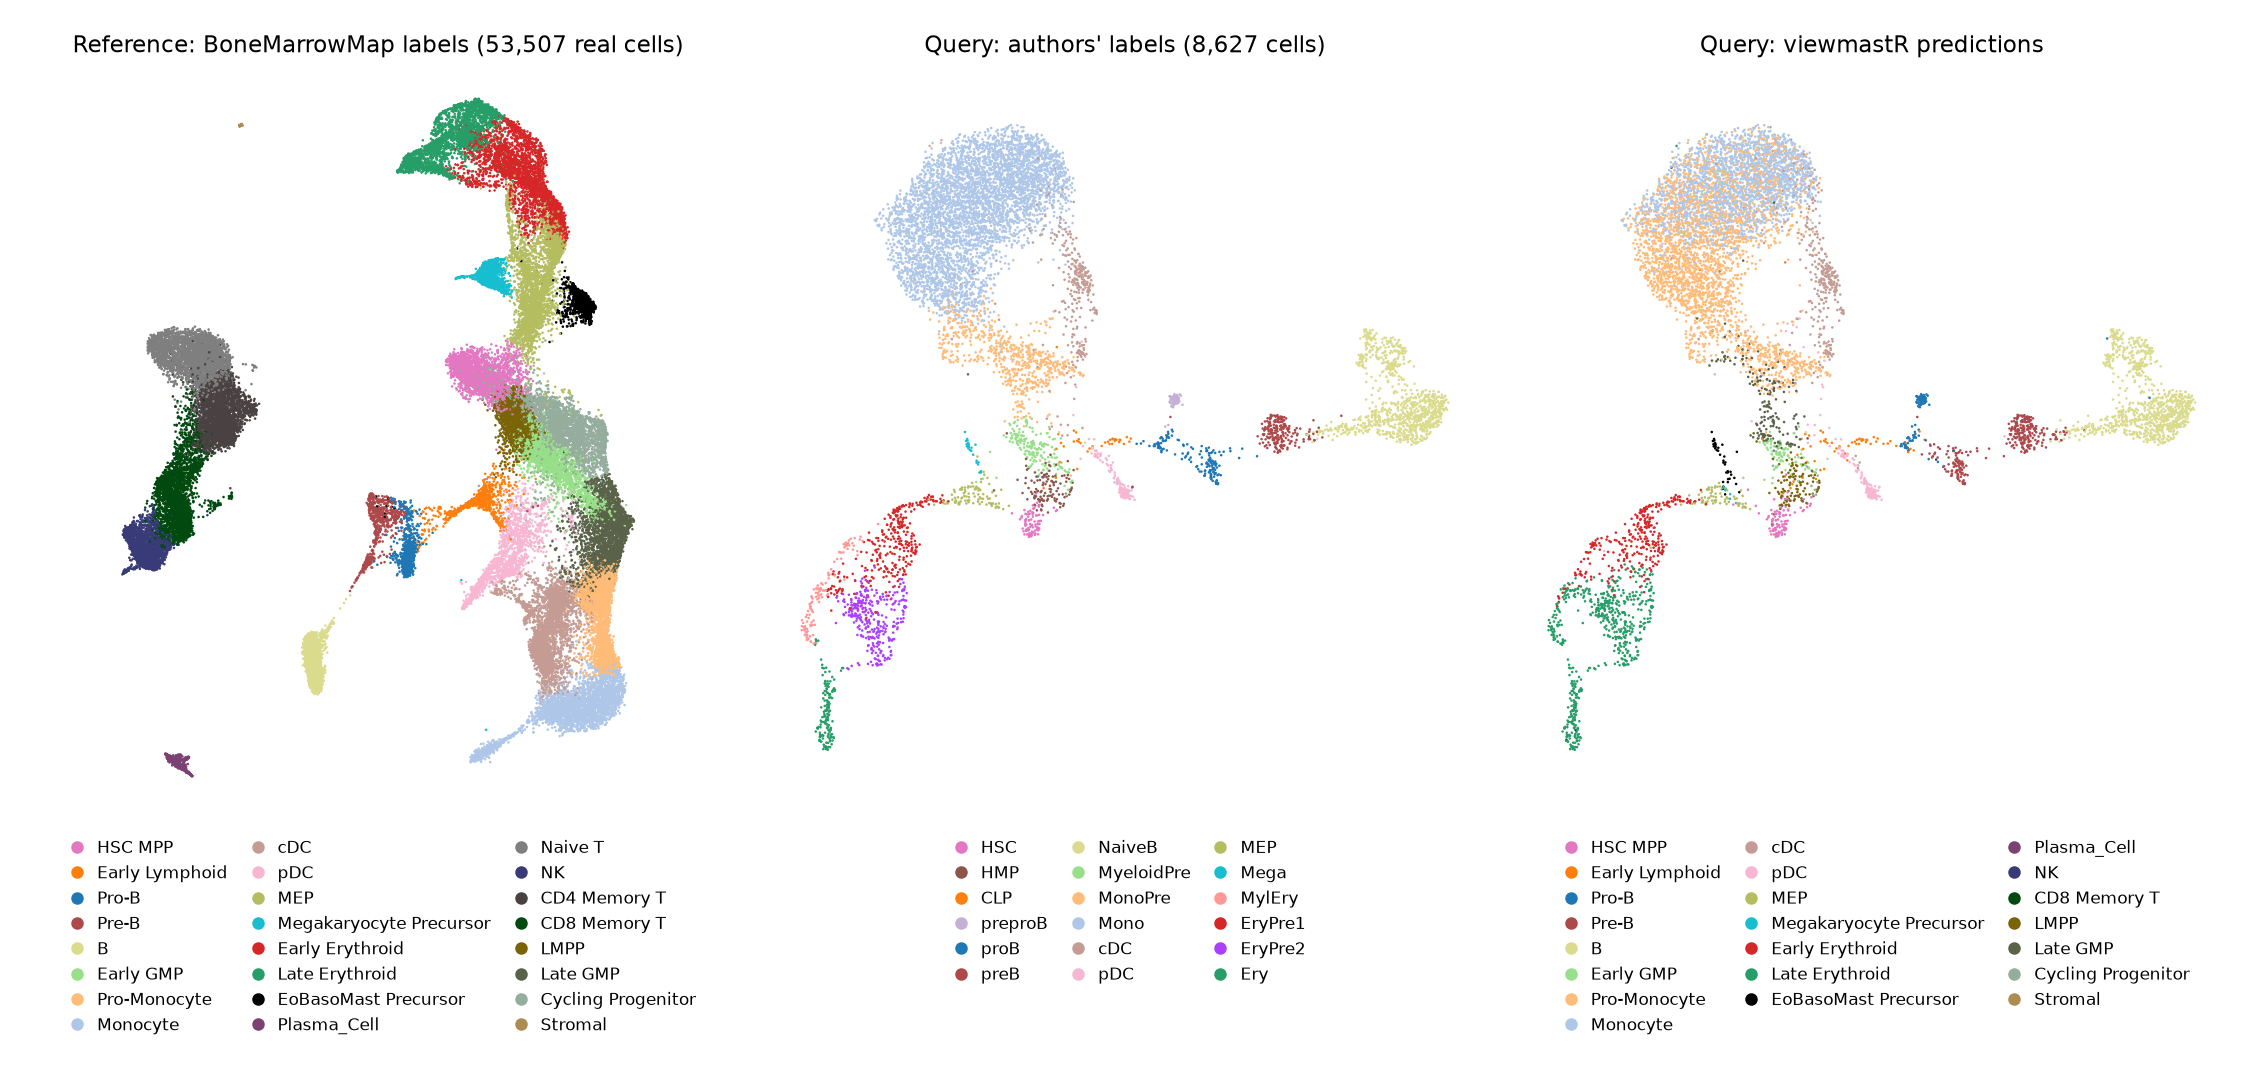
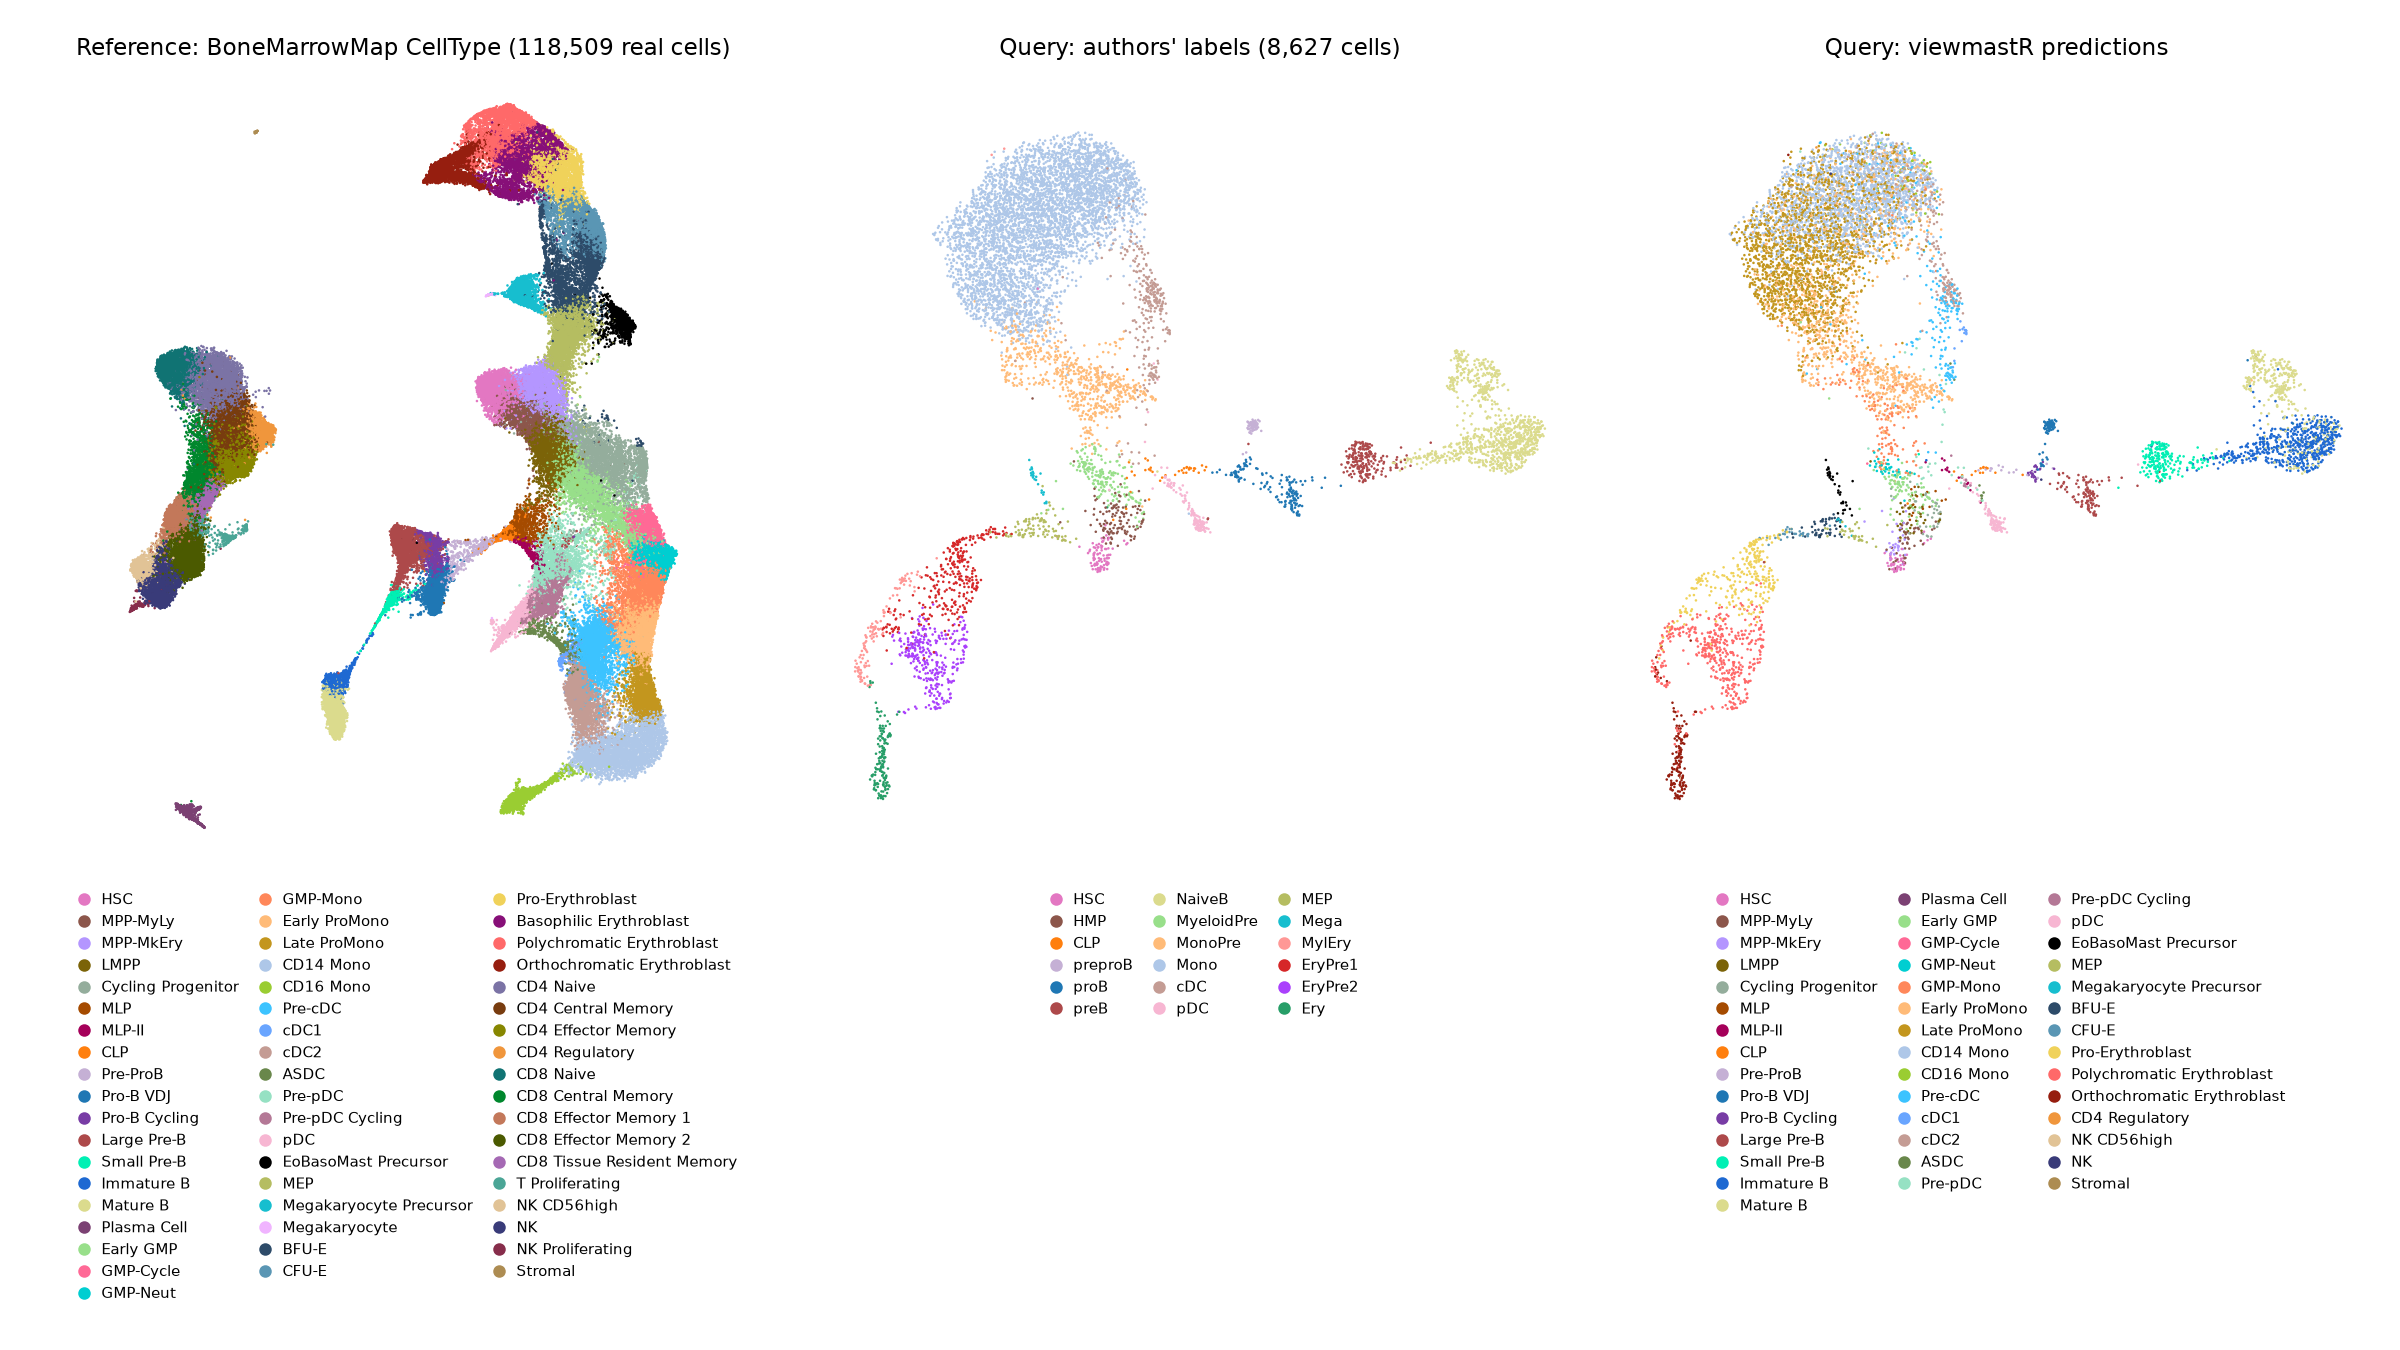
Use the fine BoneMarrowMap labels for the README example
The README example now trains on BoneMarrowMap alone with its finest
labels (CellType, 55 types), which cover every B-lymphoid stage from
HSC to mature B cell. It no longer adds the fig 3b atlas cells.

- readme_figures: label CellType, lineage order for the 55 types,
  palette colours where a fine type matches a palette population, and
  one extra CIELAB-spread palette for the rest. Adds --no-augment and
  a one-panel --panel test mode.
- Held-out accuracy: 72.9 % on 35,575 real cells over 55 types.

Tutorials 01 and 04 still use the combined reference.

diff --git a/scripts/readme_figures.py b/scripts/readme_figures.py
@@ -1,15 +1,15 @@
 """Make the two README figures from the tutorial data.
 
-Reference: BoneMarrowMap healthy bone marrow atlas (Zeng et al. 2025), 24 broad cell types,
-plus the healthy B-cell development atlas cells it lacks (Iacobucci et al. 2025, PMC12377259 fig 3b),
-balanced to 3,000 cells per type with ``augment_data`` (``tutorial_data.bonemarrowmap_augmented``,
-as in tutorials 01 and 04). Accuracy is measured on held-out real reference cells.
+Reference: BoneMarrowMap healthy bone marrow atlas (Zeng et al. 2025) with its finest labels,
+``CellType`` (55 types), balanced to 3,000 cells per type with ``augment_data``
+(``tutorial_data.bonemarrowmap_augmented``). ``--no-augment`` drops the simulated cells and trains
+on the real cells only. Accuracy is measured on held-out real reference cells.
 Query: T-cell-depleted bone marrow multiome RNA (Persad et al. 2023), 8,627 cells, loaded
 as is with the authors' labels and UMAP (``tutorial_data.bm_tcelldep``).
 
 Both datasets are shown on their own stored UMAP (real BoneMarrowMap cells only); nothing is
-re-embedded. Colours come
-from ``viewmastr.palette``.
+re-embedded. Colours come from ``viewmastr.palette``; a fine type with no palette colour of its
+own gets the next colour of ``EXTRA`` (31 colours far from the palette in CIELAB).
 
 Writes ``docs/img/transfer_umap.png`` and ``docs/img/confusion_matrix.png``.
 
@@ -38,10 +38,51 @@ import viewmastr as vm
 OUT = Path(__file__).resolve().parents[1] / "docs" / "img"
 SEED = 20261103
 ORDER = list(vm.palette.COLORS)
+# BoneMarrowMap ``CellType``, by lineage
+FINE_ORDER = [
+    "HSC", "MPP-MyLy", "MPP-MkEry", "LMPP", "Cycling Progenitor", "MLP", "MLP-II", "CLP", "Pre-ProB",
+    "Pro-B VDJ", "Pro-B Cycling", "Large Pre-B", "Small Pre-B", "Immature B", "Mature B", "Plasma Cell",
+    "Early GMP", "GMP-Cycle", "GMP-Neut", "GMP-Mono", "Early ProMono", "Late ProMono", "CD14 Mono",
+    "CD16 Mono", "Pre-cDC", "cDC1", "cDC2", "ASDC", "Pre-pDC", "Pre-pDC Cycling", "pDC",
+    "EoBasoMast Precursor", "MEP", "Megakaryocyte Precursor", "Megakaryocyte", "BFU-E", "CFU-E",
+    "Pro-Erythroblast", "Basophilic Erythroblast", "Polychromatic Erythroblast",
+    "Orthochromatic Erythroblast", "CD4 Naive", "CD4 Central Memory", "CD4 Effector Memory",
+    "CD4 Regulatory", "CD8 Naive", "CD8 Central Memory", "CD8 Effector Memory 1",
+    "CD8 Effector Memory 2", "CD8 Tissue Resident Memory", "T Proliferating", "NK CD56high", "NK",
+    "NK Proliferating", "Stromal",
+]
+# Fine types that take the palette colour of the same population (one fine type per colour)
+FINE_ALIASES = {
+    "MPP-MyLy": "HMP", "Pre-ProB": "preproB", "Pro-B VDJ": "proB", "Large Pre-B": "preB",
+    "Mature B": "NaiveB", "Plasma Cell": "Plasma", "Early ProMono": "MonoPre", "CD14 Mono": "Mono",
+    "CD16 Mono": "CD16.Mono", "cDC2": "cDC", "GMP-Neut": "GMP.Neut", "CD4 Naive": "CD4.N",
+    "CD8 Naive": "CD8.N",
+}
+# Colours for fine types with no palette colour, in order of use. Picked by greedy farthest-point
+# sampling in CIELAB (lightness 30-85, chroma < 65), each at least 20 (Delta E 1976) from every
+# palette colour and from each other.
+EXTRA = [
+    "#b496ff", "#a54b00", "#a5005a", "#783ca5", "#00f0b4", "#1e69d2", "#ff6996", "#ff875a",
+    "#c3961e", "#3cc3ff", "#69a5ff", "#69874b", "#96e1c3", "#b47896", "#f0b4ff", "#2d4b69",
+    "#5a96b4", "#f0d25a", "#870f78", "#ff6969", "#961e0f", "#783c0f", "#878700", "#f0963c",
+    "#00872d", "#c3785a", "#4b5a00", "#a569b4", "#4ba596", "#e1c396", "#872d4b",
+]
+_extra = iter(EXTRA)
+COLOR = {}
+for _k in FINE_ORDER:
+    _a = FINE_ALIASES.get(_k, _k)
+    COLOR[_k] = vm.palette.color(_a) if vm.palette.known(_a) else next(_extra)
+
+
+def color(label) -> str:
+    """Fine BoneMarrowMap types first, then the palette (query author labels)."""
+    return COLOR.get(str(label)) or vm.palette.color(label)
 
 
 def lineage_order(labels) -> list[str]:
     """Labels in palette order (roughly by lineage); unknown labels last."""
+    if set(map(str, labels)) <= set(FINE_ORDER):
+        return [k for k in FINE_ORDER if k in set(map(str, labels))]
     rank = {k: i for i, k in enumerate(ORDER)}
     key = lambda x: (rank.get(vm.palette.canonical(x), len(ORDER)), x)
     return sorted(pd.unique(pd.Series(list(labels), dtype=str)), key=key)
@@ -51,27 +92,31 @@ def umap_panel(ax, xy, labels, title):
     labels = np.asarray(labels, dtype=str)
     order = np.random.default_rng(0).permutation(len(labels))
     ax.scatter(xy[order, 0], xy[order, 1], s=1.5, linewidths=0, rasterized=True,
-               c=[vm.palette.color(x) for x in labels[order]])
+               c=[color(x) for x in labels[order]])
     ax.set_title(title, fontsize=11)
     ax.set_xticks([])
     ax.set_yticks([])
     ax.set_aspect("equal", adjustable="datalim")
     for s in ax.spines.values():
         s.set_visible(False)
-    handles = [plt.Line2D([], [], ls="", marker="o", ms=5, color=vm.palette.color(k), label=k)
+    handles = [plt.Line2D([], [], ls="", marker="o", ms=5, color=color(k), label=k)
                for k in lineage_order(labels)]
     ax.legend(handles=handles, loc="upper center", bbox_to_anchor=(0.5, -0.02), ncol=3,
-              frameon=False, fontsize=8, handletextpad=0.2, columnspacing=0.8)
+              frameon=False, fontsize=7, handletextpad=0.2, columnspacing=0.8)
 
 
 def main():
     p = argparse.ArgumentParser()
     p.add_argument("--subsample", type=int, default=0)
+    p.add_argument("--no-augment", action="store_true", help="train on real reference cells only")
+    p.add_argument("--panel", action="store_true", help="test: draw only the prediction panel")
     args = p.parse_args()
     OUT.mkdir(parents=True, exist_ok=True)
 
-    label = "CellType_Broad"
-    ref, held = td.bonemarrowmap_augmented(label, norm_number=3000, bdevelopment=True)
+    label = "CellType"
+    ref, held = td.bonemarrowmap_augmented(label, norm_number=3000)
+    if args.no_augment:
+        ref = ref[~ref.obs["simulated"].to_numpy()].copy()
     query = td.bm_tcelldep()
     if args.subsample:
         for a in (ref, held, query):
@@ -95,15 +140,21 @@ def main():
 
     # Figure 1: reference labels, query author labels, query predictions; each on its own UMAP
     pred = query.obs["viewmastR_pred"].astype(str)
-    fig, axes = plt.subplots(1, 3, figsize=(15, 7.2))
-    real = ref[~ref.obs["simulated"].to_numpy() & (ref.obs["source"] == "BoneMarrowMap").to_numpy()]
+    if args.panel:
+        fig, ax = plt.subplots(figsize=(6, 9))
+        umap_panel(ax, np.asarray(query.obsm["X_umap"]), pred, "Query: viewmastR predictions")
+        fig.subplots_adjust(left=0.01, right=0.99, top=0.94, bottom=0.36)
+        fig.savefig(OUT / "test_panel.png", dpi=150)
+        return
+    real = ref[~ref.obs["simulated"].to_numpy()]
+    fig, axes = plt.subplots(1, 3, figsize=(16, 9))
     umap_panel(axes[0], np.asarray(real.obsm["X_umap"]), real.obs[label],
-               f"Reference: BoneMarrowMap labels ({real.n_obs:,} real cells)")
+               f"Reference: BoneMarrowMap CellType ({real.n_obs:,} real cells)")
     umap_panel(axes[1], np.asarray(query.obsm["X_umap"]), query.obs["celltype"],
                f"Query: authors' labels ({query.n_obs:,} cells)")
     umap_panel(axes[2], np.asarray(query.obsm["X_umap"]), pred,
                "Query: viewmastR predictions")
-    fig.subplots_adjust(left=0.01, right=0.99, top=0.94, bottom=0.25, wspace=0.05)
+    fig.subplots_adjust(left=0.01, right=0.99, top=0.95, bottom=0.36, wspace=0.05)
     fig.savefig(OUT / "transfer_umap.png", dpi=150)
     plt.close(fig)
 
@@ -114,13 +165,13 @@ def main():
     frac = tab.div(tab.sum(axis=0), axis=1)
     print(tab.to_string())
     g = sns.clustermap(frac, row_cluster=False, col_cluster=False, cmap="viridis", vmin=0, vmax=1,
-                       row_colors=pd.Series({k: vm.palette.color(k) for k in frac.index}, name=""),
-                       col_colors=pd.Series({k: vm.palette.color(k) for k in frac.columns}, name=""),
-                       figsize=(8, 7.5), dendrogram_ratio=0.04, colors_ratio=0.025, linewidths=0,
+                       row_colors=pd.Series({k: color(k) for k in frac.index}, name=""),
+                       col_colors=pd.Series({k: color(k) for k in frac.columns}, name=""),
+                       figsize=(9, 12), dendrogram_ratio=0.04, colors_ratio=0.025, linewidths=0,
                        cbar_pos=(1.0, 0.35, 0.025, 0.2), cbar_kws={"label": "Fraction of column"})
     g.ax_heatmap.set(xlabel=f"Query authors' label ({query.n_obs:,} cells)",
                      ylabel="viewmastR prediction (reference label)")
-    g.ax_heatmap.tick_params(labelsize=9, length=0)
+    g.ax_heatmap.tick_params(labelsize=8, length=0)
     g.savefig(OUT / "confusion_matrix.png", dpi=150, bbox_inches="tight")
     plt.close("all")
     print("wrote", *sorted(OUT.glob("*.png")))

diff --git a/README.md b/README.md
@@ -16,11 +16,13 @@ them for a query dataset. Models train in viewmastR's own Rust code (the
 
 ## Example
 
-A model trained on a healthy bone marrow atlas (BoneMarrowMap, plus the healthy fetal and
-CD34+ cells of the Iacobucci et al. 2025 B-cell development atlas) labels a separate bone
-marrow dataset. The left panel shows the BoneMarrowMap cells on their stored UMAP.
-The query is shown on its own published UMAP, coloured by its authors' labels (middle) and by
-the viewmastR prediction (right). Colours are those of `viewmastr.palette`.
+A model trained on a healthy bone marrow atlas (BoneMarrowMap) with its finest labels
+(`CellType`, 55 types) labels a separate bone marrow dataset. The 55 types include every
+B-lymphoid stage from HSC to mature B cell. The left panel shows the real BoneMarrowMap
+training cells on their stored UMAP. The query is shown on its own published UMAP, coloured by
+its authors' labels (middle) and by the viewmastR prediction (right). Colours are those of
+`viewmastr.palette`. Fine types with no palette colour get one extra palette: 31 colours
+far (CIELAB) from the palette and from each other (`EXTRA` in the script).
 
 ![Reference labels, query author labels and query predictions](docs/img/transfer_umap.png)
 
@@ -32,10 +34,10 @@ vocabularies differ, so read it as a mapping between them, not as an accuracy.
 
 | Item | Value |
 |---|---|
-| Reference | BoneMarrowMap atlas (Zeng et al. 2025), 24 broad cell types, plus 72,356 healthy cells that the Iacobucci et al. 2025 fig 3b atlas adds (counts from the source deposits); 3,000 cells per type after `augment_data()` (72,000 cells, 6,567 simulated) |
+| Reference | BoneMarrowMap atlas (Zeng et al. 2025), `CellType`, 55 cell types; 3,000 cells per type after `augment_data()` (165,000 cells, 46,491 simulated) |
 | Query | Persad et al. 2023 T-cell-depleted bone marrow multiome RNA, 8,627 cells, stored UMAP |
 | Model | default multinomial logistic regression, 5 epochs |
-| Accuracy on held-out real reference cells | 85.1 % (21,356 cells, never simulated) |
+| Accuracy on held-out real reference cells | 72.9 % over 55 types (35,575 cells, never simulated) |
 
 [`scripts/readme_figures.py`](scripts/readme_figures.py) makes both figures.
 
